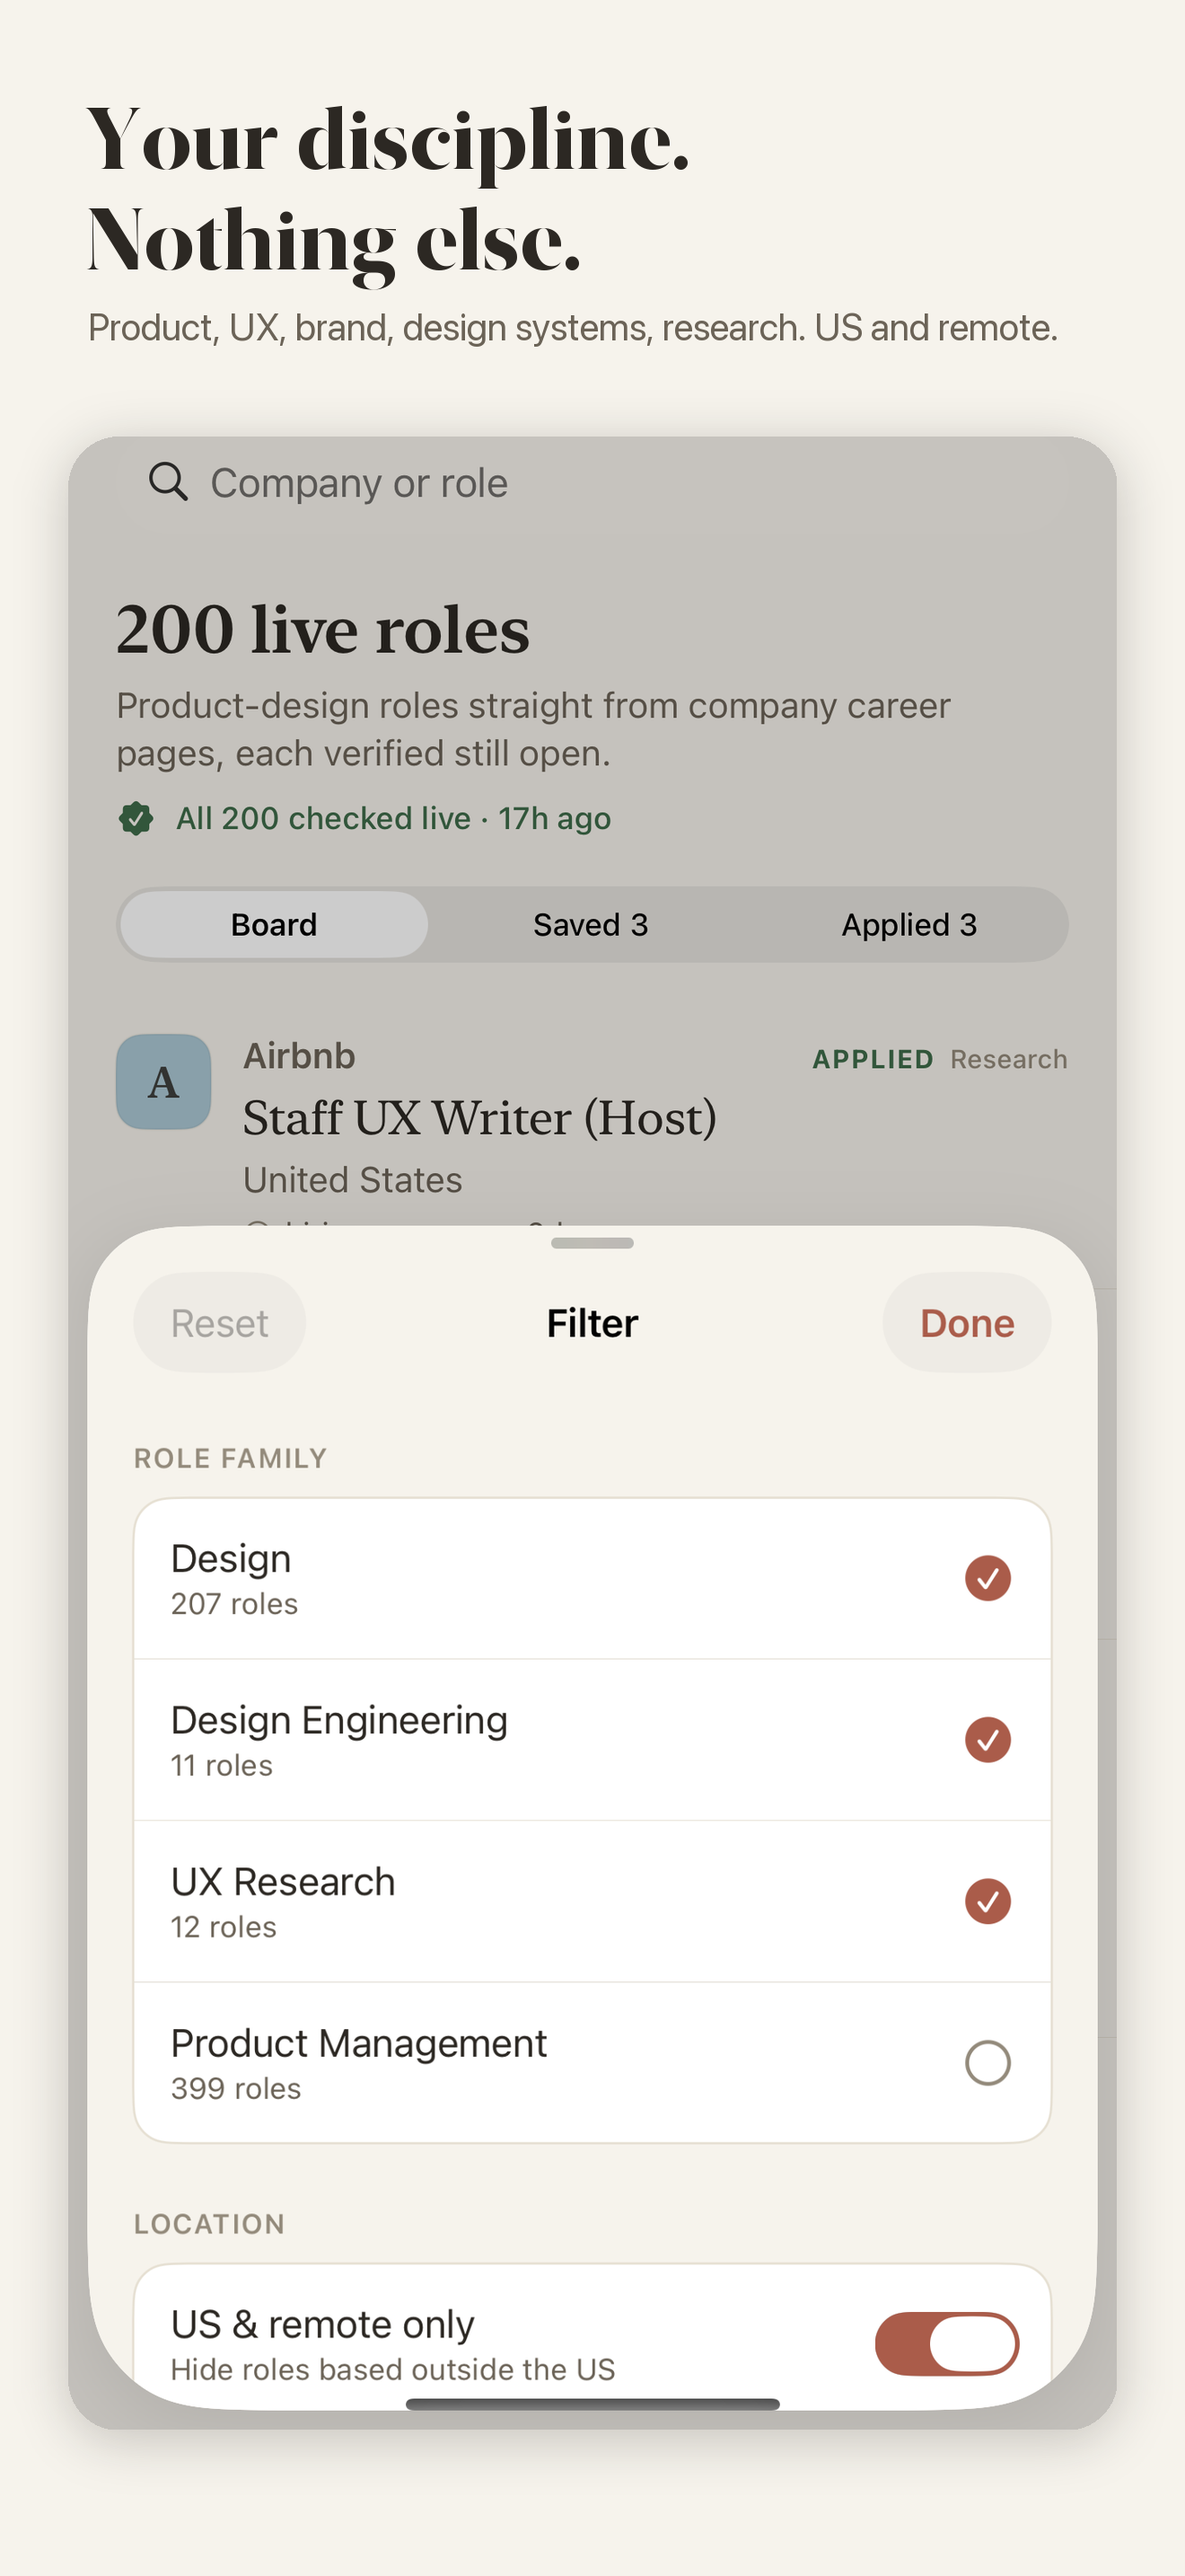
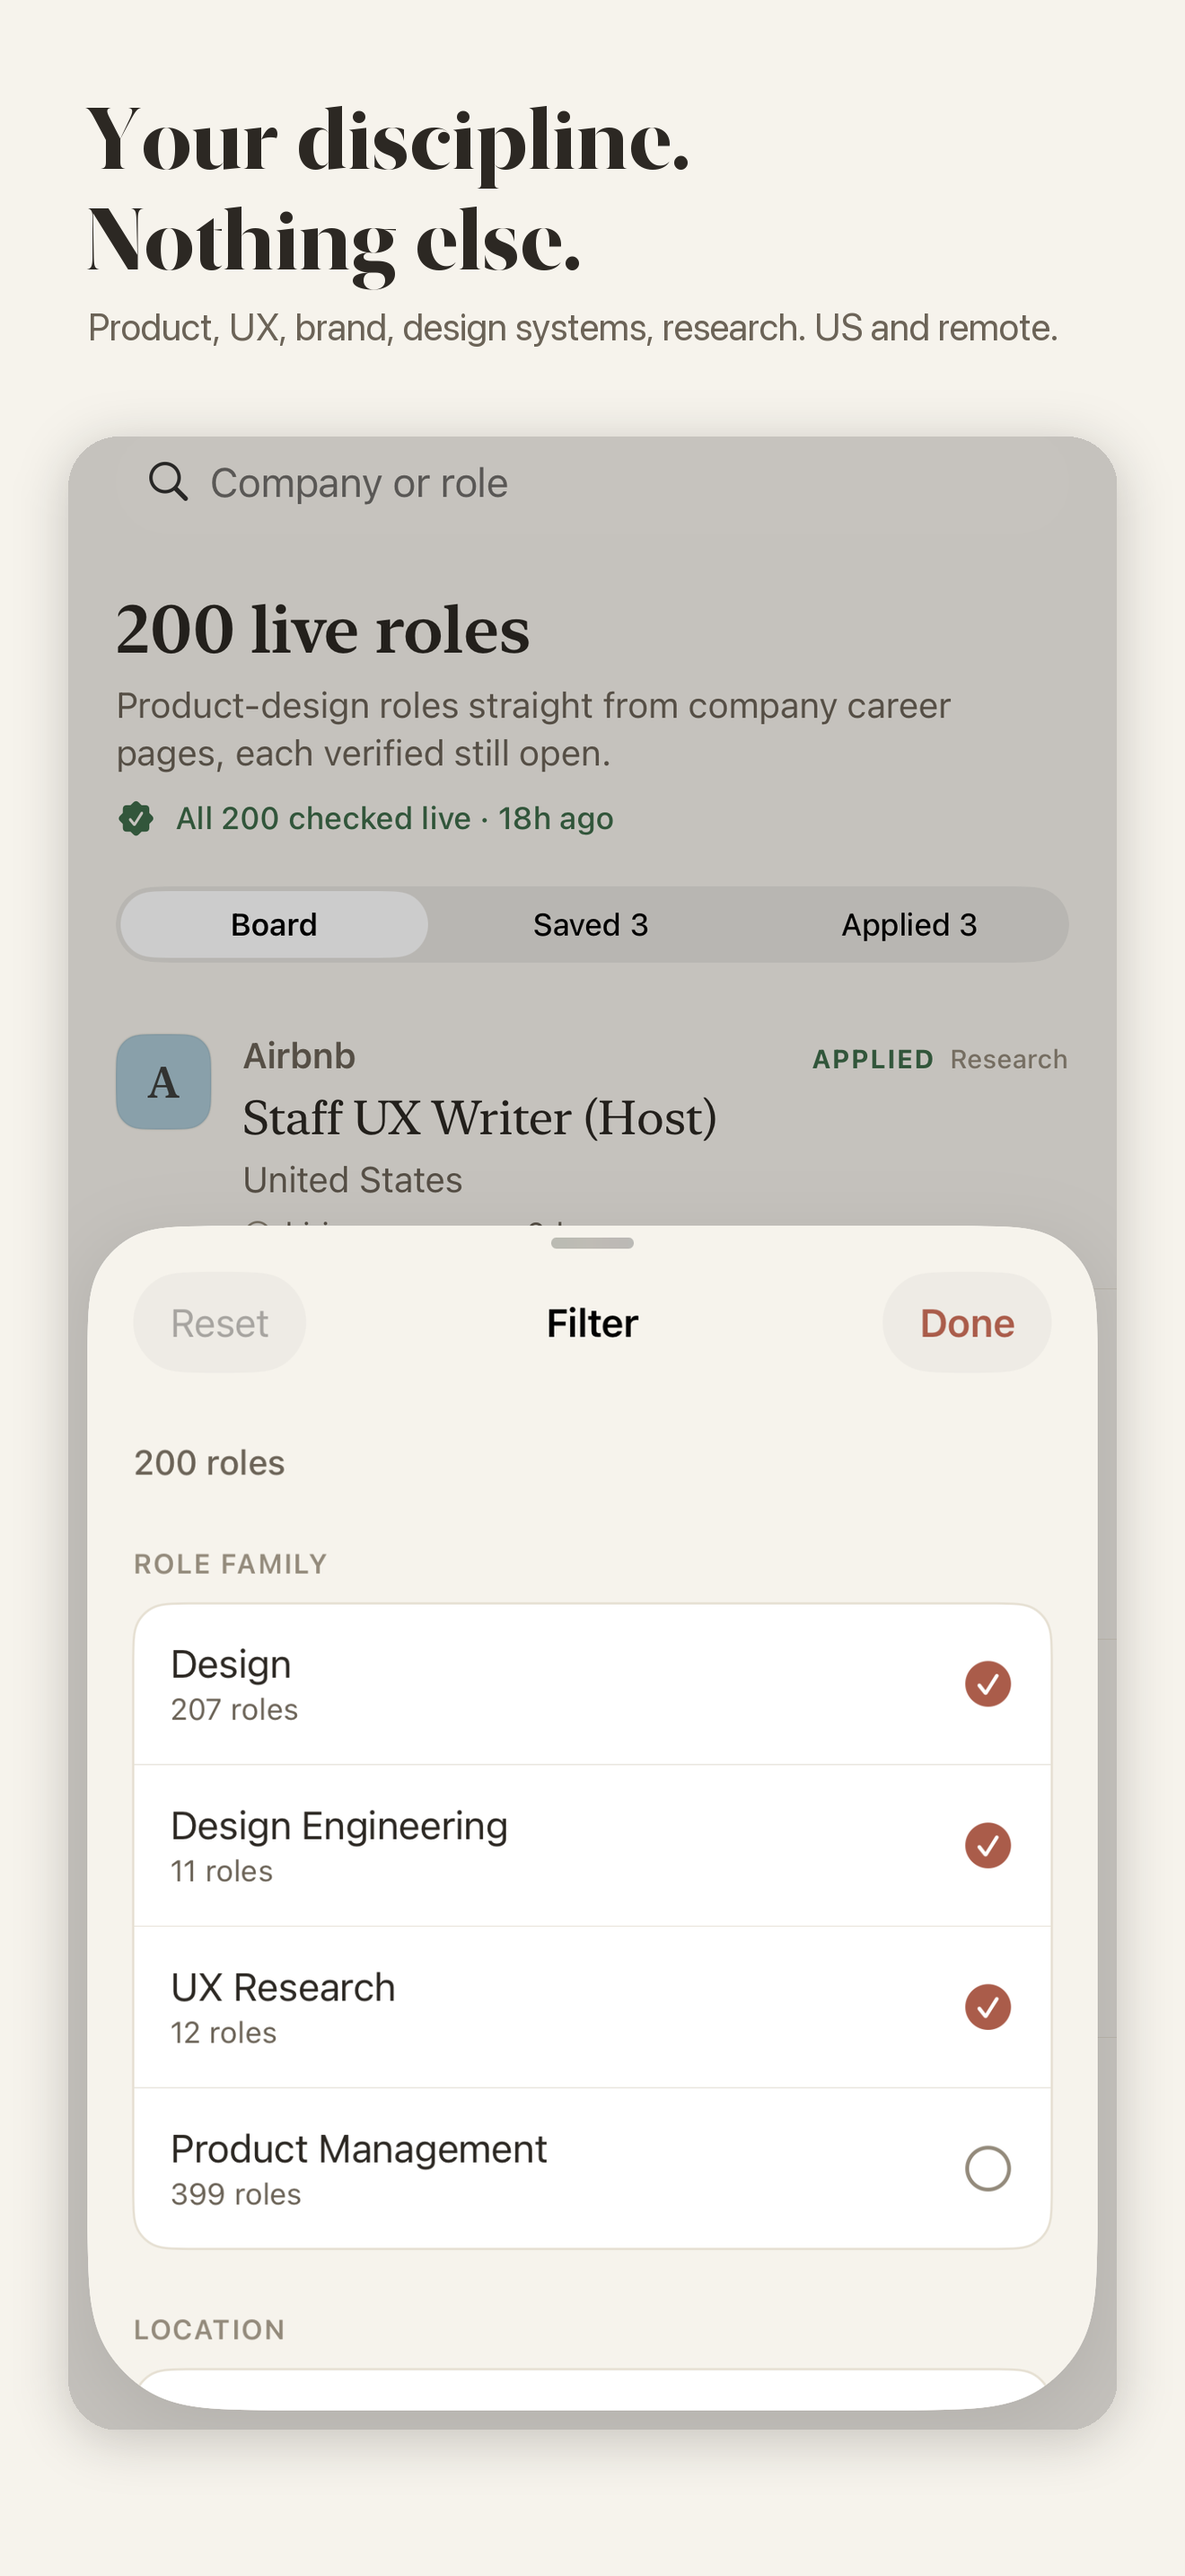
Polish the Settings and Filter screens
Filter sheet
- A live result count at the top ("143 roles match") that updates as you
  toggle families and location — immediate feedback instead of "set it and
  find out on dismiss". Goes caution-coloured and reads "loosen a filter" at
  zero. Wired from RoleListView via a matchCount closure that honours the
  board's current search and hidden set.
- The non-Plus "advanced filters" card gets a chevron and an "Opens Rolecall
  Plus" hint, so it reads as tappable rather than as grey text that happens to
  be a button.

Settings
- "Applications" section renamed "Job search" — it holds saved searches,
  applications, and auto-tidy, so the old name only described one row and
  collided with the row's own label. The "Applied roles" row is now
  "Applications", matching the screen it opens.
- Dropped the leading icons from the two navigation rows; Settings is native
  plumbing and reads calmer icon-light. The promotional Rolecall Plus row
  keeps its accent mark.
- Privacy Policy / Terms of Use rows get the trailing arrow.up.right glyph
  that signals "this leaves the app", via a shared externalLink helper.
- "Clear all my data" -> "Clear all data" (and the matching alert title) —
  neutral imperative, per Apple's own "Erase All Content and Settings".

Screenshot test: step 5 now scrolls Settings to the Privacy section before
capturing, so the "No account. No trackers." caption sits over the promise it
describes. Store screenshots re-framed.
[…]

diff --git a/ios/Rolecall/Views/SettingsView.swift b/ios/Rolecall/Views/SettingsView.swift
@@ -27,6 +27,21 @@ struct SettingsView: View {
         }
     }
 
+    /// A list row that opens a web page — with the trailing glyph iOS uses to say
+    /// "this leaves the app".
+    private func externalLink(_ title: String, _ urlString: String) -> some View {
+        Link(destination: URL(string: urlString)!) {
+            HStack {
+                Text(title)
+                Spacer()
+                Image(systemName: "arrow.up.right")
+                    .font(.footnote)
+                    .foregroundStyle(.tertiary)
+            }
+        }
+        .accessibilityLabel("\(title). Opens in the browser.")
+    }
+
     private var version: String {
         let v = Bundle.main.infoDictionary?["CFBundleShortVersionString"] as? String ?? "1.0"
         let b = Bundle.main.infoDictionary?["CFBundleVersion"] as? String ?? "1"
@@ -98,28 +113,16 @@ struct SettingsView: View {
                 .onChange(of: settings.morningRead) { _, on in handleDigestToggle(on) }
                 .onChange(of: settings.weeklyRecap) { _, on in handleDigestToggle(on) }
 
-                Section("Applications") {
+                Section("Job search") {
                     NavigationLink {
                         SavedSearchesView()
                     } label: {
-                        HStack {
-                            Label("Saved searches", systemImage: "bookmark")
-                            Spacer()
-                            Text("\(searches.searches.count)")
-                                .foregroundStyle(.secondary)
-                                .monospacedDigit()
-                        }
+                        LabeledContent("Saved searches", value: "\(searches.searches.count)")
                     }
                     NavigationLink {
                         AppliedReportView()
                     } label: {
-                        HStack {
-                            Label("Applied roles", systemImage: "checkmark.circle")
-                            Spacer()
-                            Text("\(tracked.appliedCount)")
-                                .foregroundStyle(.secondary)
-                                .monospacedDigit()
-                        }
+                        LabeledContent("Applications", value: "\(tracked.appliedCount)")
                     }
                     Toggle(isOn: $settings.autoClearOldRoles) {
                         VStack(alignment: .leading, spacing: 2) {
@@ -134,13 +137,13 @@ struct SettingsView: View {
                     Text("Rolecall keeps everything on this device. No account, no analytics, no trackers. Nothing you do here is sent anywhere.")
                         .font(.footnote)
                         .foregroundStyle(.secondary)
-                    Link("Privacy Policy", destination: URL(string: "https://rolecalljobs.com/privacy/")!)
-                    Link("Terms of Use", destination: URL(string: "https://rolecalljobs.com/terms/")!)
+                    externalLink("Privacy Policy", "https://rolecalljobs.com/privacy/")
+                    externalLink("Terms of Use", "https://rolecalljobs.com/terms/")
                 }
 
                 Section {
                     Button(role: .destructive) { confirmingWipe = true } label: {
-                        Text("Clear all my data")
+                        Text("Clear all data")
                     }
                 } footer: {
                     Text("Removes every saved role, application, and preference. The job board itself is unaffected.")
@@ -170,7 +173,7 @@ struct SettingsView: View {
             } message: {
                 Text("Turn on notifications for Rolecall in the Settings app to get digests.")
             }
-            .alert("Clear all your data?", isPresented: $confirmingWipe) {
+            .alert("Clear all data?", isPresented: $confirmingWipe) {
                 Button("Clear everything", role: .destructive) {
                     tracked.wipeAll()
                     searches.wipeAll()

diff --git a/ios/Rolecall/Views/FilterSheet.swift b/ios/Rolecall/Views/FilterSheet.swift
@@ -8,6 +8,9 @@ struct FilterSheet: View {
     let remoteCount: Int
     /// Companies on the board, for the "exclude" picker.
     var companies: [String] = []
+    /// How many roles the given filter (plus the board's current search) would show —
+    /// so the sheet can echo the result live as you adjust it.
+    var matchCount: ((RoleFilter) -> Int)? = nil
     @Environment(\.dismiss) private var dismiss
     @Environment(\.isPlus) private var isPlus
     @State private var showPaywall = false
@@ -16,6 +19,10 @@ struct FilterSheet: View {
         NavigationStack {
             ScrollView {
                 VStack(alignment: .leading, spacing: Theme.Metric.sectionGap) {
+                    if let matchCount {
+                        countLine(matchCount(filter))
+                    }
+
                     section("Role family") {
                         VStack(spacing: 0) {
                             ForEach(RoleFamily.allCases) { family in
@@ -74,6 +81,21 @@ struct FilterSheet: View {
         }
     }
 
+    /// Live count of what the current filter would show, at the top of the sheet.
+    private func countLine(_ n: Int) -> some View {
+        let noun = n == 1 ? "role" : "roles"
+        let text = n == 0 ? "No roles match — loosen a filter"
+            : filter.isActive ? "\(n) \(noun) match"
+            : "\(n) \(noun)"
+        return Text(text)
+            .font(.subheadline.weight(.medium))
+            .foregroundStyle(n == 0 ? Theme.Palette.caution : Theme.Palette.inkSecondary)
+            .contentTransition(.numericText())
+            .animation(.easeOut(duration: 0.2), value: n)
+            .accessibilityLabel(n == 0 ? "No roles match the current filter"
+                                : "\(n) \(noun) match the current filter")
+    }
+
     // MARK: advanced (Plus)
 
     @ViewBuilder
@@ -102,15 +124,21 @@ struct FilterSheet: View {
                 Button {
                     showPaywall = true
                 } label: {
-                    Text("Filter by seniority, how recently a role was posted, and hide companies you're not interested in.")
-                        .font(.footnote)
-                        .foregroundStyle(Theme.Palette.inkSecondary)
-                        .frame(maxWidth: .infinity, alignment: .leading)
-                        .padding(16)
-                        .contentShape(Rectangle())
+                    HStack(spacing: 12) {
+                        Text("Filter by seniority, how recently a role was posted, and hide companies you're not interested in.")
+                            .font(.footnote)
+                            .foregroundStyle(Theme.Palette.inkSecondary)
+                            .frame(maxWidth: .infinity, alignment: .leading)
+                        Image(systemName: "chevron.forward")
+                            .font(.footnote.weight(.semibold))
+                            .foregroundStyle(Theme.Palette.inkTertiary)
+                    }
+                    .padding(16)
+                    .contentShape(Rectangle())
                 }
                 .buttonStyle(.plain)
                 .cardSurface()
+                .accessibilityHint("Opens Rolecall Plus")
             }
         }
     }

diff --git a/ios/Rolecall/Views/RoleListView.swift b/ios/Rolecall/Views/RoleListView.swift
@@ -64,7 +64,8 @@ struct RoleListView: View {
                     filter: $filter,
                     counts: familyCounts,
                     remoteCount: store.board.roles.filter(\.isRemote).count,
-                    companies: uniqueCompanies
+                    companies: uniqueCompanies,
+                    matchCount: matchCount
                 )
                 .presentationDetents([.medium, .large])
             }
@@ -285,6 +286,13 @@ struct RoleListView: View {
 
     private var uniqueCompanies: [String] {
         Array(Set(store.board.roles.map(\.company))).sorted()
+    }
+
+    /// Roles a candidate filter would show, honouring the board's current search and the
+    /// hidden set — feeds the live count in the filter sheet.
+    private func matchCount(_ candidate: RoleFilter) -> Int {
+        let visible = store.board.roles.filter { tracked.status(for: $0)?.isHidden != true }
+        return Self.search(visible, query: query).filter { candidate.matches($0, now: now) }.count
     }
 
     private func sectionHeader(_ title: String, count: Int) -> some View {

diff --git a/ios/RolecallUITests/ScreenshotTests.swift b/ios/RolecallUITests/ScreenshotTests.swift
@@ -96,11 +96,17 @@ final class ScreenshotTests: XCTestCase {
             app.buttons["Done"].firstMatch.tap()
         }
 
-        // 5 — no account, no trackers
+        // 5 — no account, no trackers (scroll to the privacy promise the caption is about)
         let settings = app.navigationBars.buttons["Settings"]
         if settings.waitForExistence(timeout: 5) {
             settings.tap()
             _ = app.staticTexts["Appearance"].waitForExistence(timeout: 5)
+            let clearButton = app.buttons["Clear all data"]
+            var tries = 0
+            while !clearButton.isHittable && tries < 8 {
+                app.swipeUp()
+                tries += 1
+            }
             shot("05-privacy")
         }
     }
